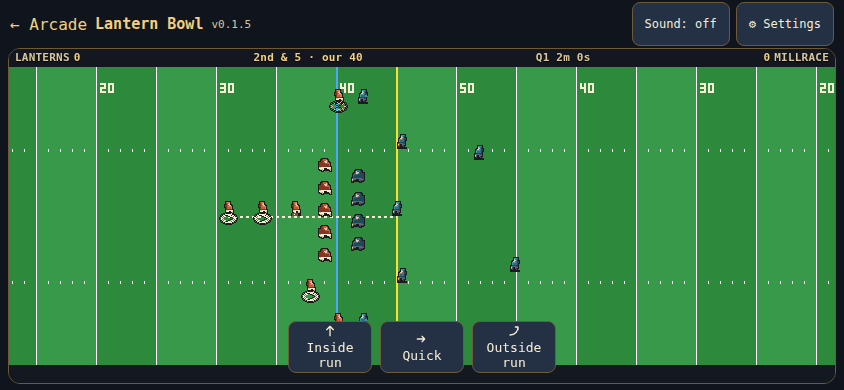
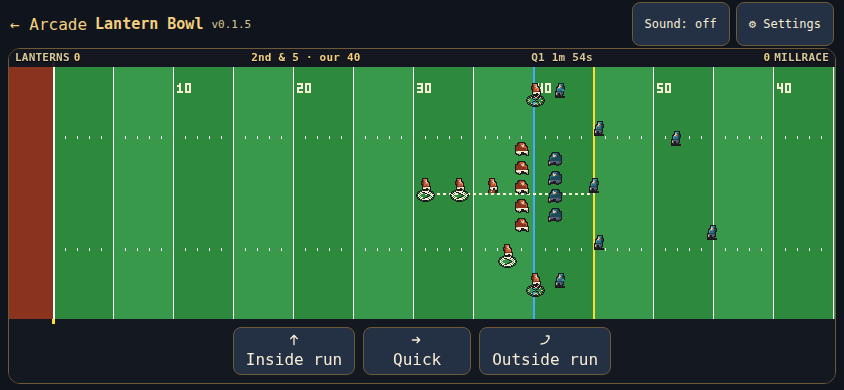
The result line sits on the bottom edge, the play cards stay on one 16px line, and the defence buttons stay off the receivers' feet.

diff --git a/tests/lantern-bowl.html b/tests/lantern-bowl.html
@@ -122,6 +122,12 @@ document.querySelector('#run').onclick = async () => {
     const fittedPhone = V.fitLayout(844, 390), fittedNarrow = V.fitLayout(780, 360), fittedDesk = V.fitLayout(1024, 594);
     const fills = (fitted, boxW, boxH) => !!fitted && fitted.scale === Math.floor(fitted.scale) && fitted.scale >= 1 && !fitted.vertical && fitted.w * fitted.scale <= boxW && fitted.h * fitted.scale <= boxH && fitted.w * fitted.scale >= boxW - fitted.scale && fitted.h * fitted.scale >= boxH - fitted.scale;
     check('the picture scales by a whole number and fills the box', fills(fittedPhone, 844, 390) && fills(fittedNarrow, 780, 360) && fills(fittedDesk, 1024, 594));
+    const aboveCards = (fitted) => {
+      const reserve = Math.ceil(64 / fitted.scale);
+      const feet = fitted.top + fitted.fieldH * (0.5 + 20 / fitted.widthY) + 2;
+      return fitted.top + fitted.fieldH <= fitted.h - reserve + 0.5 && feet <= fitted.h - reserve;
+    };
+    check('the grass and the widest receiver stay above the bottom cards', aboveCards(fittedPhone) && aboveCards(fittedNarrow) && aboveCards(fittedDesk));
     const openMark = V.opennessMark('open'), windowMark = V.opennessMark('window'), coveredMark = V.opennessMark('covered');
     check('openness marks differ by shape, with a light open ring', openMark.shape !== windowMark.shape && windowMark.shape !== coveredMark.shape && openMark.color === '#f6edd4' && openMark.outline === '#1e1a22' && coveredMark.shape === 'dotted');
     let openCatches = 0, tightPicks = 0, tightDrops = 0, trials = 1600, rollState = 5;
@@ -675,7 +681,7 @@ document.querySelector('#run').onclick = async () => {
     const sheet = d2.querySelector('#sheet');
     const resumed = w2.__lantern.state;
     const resultLine = d2.querySelector('#banner');
-    check('the toast names the play without a rating number', !!resultLine && !resultLine.hidden && sheet.hidden && resultLine.textContent.length > 8 && !/\(\d+\)/.test(resultLine.textContent) && resultLine.textContent.indexOf('throw ') < 0);
+    check('continuing a drive does not lay the last result over the cards', sheet.hidden && resultLine.hidden);
     const offered = Array.from(d2.querySelectorAll('[data-play]'));
     check('the call is a short row with a diagram', offered.length >= 2 && offered.length <= 3 && offered.every(b => b.querySelector('svg') && b.textContent.trim().length > 1));
     check('kick stays off the call until fourth down', !d2.querySelector('[data-play="kick"]') && !d2.querySelector('[data-play="field"]') && !d2.querySelector('[data-play="punt"]'));
@@ -733,7 +739,7 @@ document.querySelector('#run').onclick = async () => {
     check('the toast names the ball carrier without a rating number', !!carried && !carried.hidden && topCopy.hidden && carried.textContent.indexOf('Mara Holt') >= 0 && !/\(\d+\)/.test(carried.textContent) && carried.textContent.indexOf('throw ') < 0);
     const bannerZ = parseInt(w2.getComputedStyle(carried).zIndex, 10);
     const dockZ = parseInt(w2.getComputedStyle(d2.querySelector('#dock')).zIndex, 10);
-    check('one result toast sits clear of the yard numbers, with the play cards hidden', w2.__lantern.state.phase !== 'final' && d2.querySelectorAll('[data-play]').length === 0 && topCopy.hidden && !carried.hidden && carriedBox.top > carriedPitch.top + carriedPitch.height * 0.45 && carriedBox.bottom <= carriedPitch.bottom && bannerZ > dockZ);
+    check('one result toast sits on the bottom edge, clear of the players, with the play cards hidden', w2.__lantern.state.phase !== 'final' && d2.querySelectorAll('[data-play]').length === 0 && topCopy.hidden && !carried.hidden && carriedBox.top >= carriedPitch.bottom - 56 && carriedPitch.bottom - carriedBox.bottom <= 16 && carriedPitch.bottom - carriedBox.bottom >= 0 && bannerZ > dockZ);
     let cardsBack = false;
     const backWatch = performance.now();
     while (performance.now() - backWatch < 4000 && !cardsBack) {
@@ -741,9 +747,8 @@ document.querySelector('#run').onclick = async () => {
       cardsBack = w2.__lantern.mode === 'play' && d2.querySelectorAll('[data-play]').length >= 2 && d2.querySelectorAll('[data-play]').length <= 3;
     }
     check('the next play can be called once the result has been shown', cardsBack);
-    const callBanner = d2.querySelector('#banner').getBoundingClientRect();
     const callCard = d2.querySelector('#dock button') && d2.querySelector('#dock button').getBoundingClientRect();
-    check('the one result toast stays above the next play cards', d2.querySelector('#sheet').hidden && !!callCard && callBanner.bottom <= callCard.top + 4);
+    check('the result line leaves once the next play cards return', d2.querySelector('#sheet').hidden && !!callCard && d2.querySelector('#banner').hidden);
     resumed.possession = 'home';
     resumed.phase = 'call';
     resumed.down = 1;
@@ -797,7 +802,17 @@ document.querySelector('#run').onclick = async () => {
       check(width + '×' + height + ' field fills most of the screen', pitch.height >= height * 0.62 && pitch.width >= width * 0.85);
       check(width + '×' + height + ' keeps a thin score strip', hud.height >= 16 && hud.height <= 20);
       check(width + '×' + height + ' play buttons are thumb sized', Array.from(d2.querySelectorAll('#dock button, #settingsMount button, .home')).every(b => b.getBoundingClientRect().height >= 44 && b.getBoundingClientRect().width >= 44));
+      const labelRows = cards.map(b => b.querySelector('span')).filter(Boolean);
+      const labelFonts = cards.map(b => parseFloat(w2.getComputedStyle(b).fontSize));
+      const labelHeights = cards.map(b => Math.round(b.getBoundingClientRect().height));
+      check(width + '×' + height + ' labels are 16px on one line', labelFonts.every(n => n >= 16) && labelRows.every(s => s.getClientRects().length === 1 && s.scrollWidth <= s.clientWidth + 1) && labelHeights.every(h => h === labelHeights[0] && h <= 48));
+      check(width + '×' + height + ' hint text is readable', parseFloat(w2.getComputedStyle(d2.querySelector('#hint')).fontSize) >= 16 && parseFloat(w2.getComputedStyle(d2.querySelector('#hint')).lineHeight) >= 20);
       check(width + '×' + height + ' call is two or three plays along the bottom', cards.length >= 2 && cards.length <= 3 && cards[0].getBoundingClientRect().top > pitch.top + pitch.height * 0.55);
+      if (width === 780) {
+        const layout = w2.LanternView.fitLayout(pitch.width, pitch.height);
+        const feet = pitch.top + (layout.top + layout.fieldH * (0.5 + 20 / layout.widthY) + 2) * layout.scale;
+        check('at 780×360 the cards stay off the bottom receivers', cards[0].getBoundingClientRect().top + 1 >= feet);
+      }
       if (width === 844) {
         const boxes = [d2.querySelector('h1'), d2.querySelector('.home'), d2.querySelector('#settingsMount button')].map(el => el.getBoundingClientRect());
         const mids = boxes.map(r => (r.top + r.bottom) / 2);
@@ -814,7 +829,7 @@ document.querySelector('#run').onclick = async () => {
         banner.hidden = false; banner.textContent = 'The result sits low.';
         const players = fieldWide.top + fieldWide.height * 0.45;
         const bannerBox = banner.getBoundingClientRect();
-        check('on a landscape phone the result sits below the players', bannerBox.top > players);
+        check('on a landscape phone the result sits on the bottom edge', bannerBox.top > players && bannerBox.top >= fieldWide.bottom - 56 && fieldWide.bottom - bannerBox.bottom <= 16);
         banner.hidden = true; banner.textContent = '';
         resumed.down = 4;
         resumed.spot = 70;
@@ -822,6 +837,10 @@ document.querySelector('#run').onclick = async () => {
         await wait();
         const fourthCards = Array.from(d2.querySelectorAll('[data-play]'));
         check('on a landscape phone fourth down still offers a short call', fourthCards.length >= 2 && fourthCards.length <= 3 && !!d2.querySelector('[data-play="field"]') && !!d2.querySelector('[data-play="punt"]') && !d2.querySelector('[data-play="kick"]'));
+        const fourthLabels = fourthCards.map(b => b.querySelector('span')).filter(Boolean);
+        const fourthFonts = fourthCards.map(b => parseFloat(w2.getComputedStyle(b).fontSize));
+        const fourthHeights = fourthCards.map(b => Math.round(b.getBoundingClientRect().height));
+        check('fourth down labels stay on one 16px line', fourthFonts.every(n => n >= 16) && fourthLabels.every(s => s.getClientRects().length === 1 && s.scrollWidth <= s.clientWidth + 1) && fourthHeights.every(h => h === fourthHeights[0] && h <= 48));
         check('on a landscape phone fourth down still fits', d2.documentElement.scrollWidth <= width + 1 && d2.documentElement.scrollHeight <= height + 1);
         resumed.down = 1;
         resumed.spot = 28;
@@ -877,6 +896,16 @@ document.querySelector('#run').onclick = async () => {
     again.watchLive();
     await wait();
     check('before a Millrace drive you pick blitz, balanced or prevent', d2.querySelectorAll('[data-defence]').length === 3 && d2.querySelectorAll('[data-play]').length === 0 && (d2.querySelector('#hint').textContent || '').indexOf('Pick a defence') >= 0 && !d2.querySelector('.cpu-log'));
+    frame.style.width = '780px'; frame.style.height = '360px';
+    await wait();
+    const defencePitch = d2.querySelector('.pitch').getBoundingClientRect();
+    const defenceBtn = d2.querySelector('[data-defence]').getBoundingClientRect();
+    const defenceLayout = w2.LanternView.fitLayout(defencePitch.width, defencePitch.height);
+    const defenceFeet = defencePitch.top + (defenceLayout.top + defenceLayout.fieldH * (0.5 + 20 / defenceLayout.widthY) + 2) * defenceLayout.scale;
+    const defenceLabels = Array.from(d2.querySelectorAll('[data-defence]'));
+    check('at 780×360 the defence cards stay off the bottom receivers', defenceBtn.top + 1 >= defenceFeet && defenceLabels.every(b => { const s = b.querySelector('span'); return parseFloat(w2.getComputedStyle(b).fontSize) >= 16 && s && s.getClientRects().length === 1 && Math.round(b.getBoundingClientRect().height) === 48; }));
+    frame.style.width = '844px'; frame.style.height = '390px';
+    await wait();
     d2.querySelector('[data-defence="balanced"]').click();
     let sawLive = false, ballMoved = false, firstBall = null, staleStrip = false, firstSquad = null, playersMoved = false, buttonsDuring = false;
     for (let i = 0; i < 48; i++) {
@@ -952,7 +981,10 @@ document.querySelector('#run').onclick = async () => {
     check('an overtime save round-trips at v2', !!otLoaded && otLoaded.v === 2 && otBack.quarter === 5 && otBack.otTurns === 2 && otWritten.quarter === 5 && otWritten.otTurns === 2 && otWritten.possession === 'away' && Math.round(otWritten.spot) === 75 && JSON.stringify(otWritten) === JSON.stringify(otLoaded.match));
     d2.querySelector('#field').dispatchEvent(new w2.PointerEvent('pointerdown', { clientX: 30, clientY: 80, pointerId: 7, bubbles: true }));
     await wait();
-    check('a drag before a play asks for one', (d2.querySelector('#banner').textContent || '').indexOf('Pick a play') >= 0);
+    const askHint = d2.querySelector('#hint').textContent || '';
+    const askBanner = d2.querySelector('#banner');
+    const askCards = d2.querySelector('#dock button');
+    check('a drag before a play asks for one', (askHint + (askBanner.textContent || '')).indexOf('Pick a play') >= 0 && (!askCards || askBanner.hidden));
     again.rush(true);
     again.state.down = 4; again.state.spot = 28; again.state.toGo = 10; again.state.phase = 'call'; again.state.possession = 'home';
     again.state.quarter = 1; again.state.clock = 120; again.state.seed = 1; again.state.rng = 1;

diff --git a/games/lantern-bowl/style.css b/games/lantern-bowl/style.css
@@ -77,31 +77,34 @@ canvas { display: block; width: 100%; height: 100%; touch-action: none; }
 .cpu-log li { margin: 0 0 8px; }
 .cpu-log p { margin: 0; }
 .banner {
-  position: absolute; left: 50%; bottom: 82px; top: auto; transform: translateX(-50%); z-index: 6;
-  max-width: min(92%, 420px); padding: 6px 12px; background: #141820e6; border: 1px solid var(--lamp);
-  color: var(--ink); text-align: center; font-size: calc(14px * var(--arc-text)); pointer-events: none;
+  position: absolute; left: 8px; right: 8px; bottom: 8px; top: auto; transform: none; z-index: 6;
+  max-width: none; margin: 0 auto; padding: 4px 12px; background: #141820e6; border: 1px solid var(--lamp);
+  color: var(--ink); text-align: center; font-size: calc(16px * var(--arc-text)); line-height: 20px;
+  white-space: nowrap; overflow: hidden; text-overflow: ellipsis; pointer-events: none;
 }
 .dock {
-  position: absolute; left: 0; right: 0; bottom: 10px; z-index: 5;
+  position: absolute; left: 0; right: 0; bottom: 8px; z-index: 5;
   display: flex; justify-content: center; pointer-events: none;
 }
-.dock-plays { display: flex; gap: 8px; pointer-events: auto; }
+.dock-plays { display: flex; gap: 8px; pointer-events: auto; max-width: 100%; }
 .dock-plays button {
-  width: 96px; min-height: 48px; max-height: 64px; display: flex; flex-direction: column;
-  align-items: center; justify-content: center; gap: 2px; padding: 4px 6px;
-  white-space: normal; line-height: 1.15; font-size: calc(13px * var(--arc-text));
+  width: auto; min-width: 108px; height: 48px; min-height: 48px; max-height: 48px;
+  display: flex; flex-direction: column;
+  align-items: center; justify-content: center; gap: 2px; padding: 4px 12px;
+  white-space: nowrap; line-height: 20px; font-size: calc(16px * var(--arc-text));
 }
+.dock-plays button span { white-space: nowrap; }
 .dock-plays svg { width: 28px; height: 16px; flex: 0 0 auto; fill: none; stroke: currentColor; stroke-width: 2; stroke-linecap: round; stroke-linejoin: round; }
 .hint, .held {
   position: absolute; margin: 0; text-align: center;
-  color: #d9c89a; font-size: 11px; line-height: 16px; pointer-events: none;
+  color: #d9c89a; font-size: calc(16px * var(--arc-text)); line-height: 24px; pointer-events: none;
 }
 .hint {
-  top: 18px; left: 0; right: 0; height: 16px; max-height: 16px;
+  top: 18px; left: 0; right: 0; height: 24px; max-height: 24px;
   padding: 0 8px; z-index: 4; overflow: hidden; text-overflow: ellipsis;
   white-space: nowrap; background: #141820f2;
 }
-.held { left: 12px; right: 12px; top: 40px; z-index: 6; color: var(--lamp); }
+.held { left: 12px; right: 12px; top: 46px; z-index: 6; color: var(--lamp); }
 .hint.reading { color: var(--lamp); font-weight: 700; }
 .turn {
   position: fixed; inset: 0; z-index: 10000;
@@ -158,8 +161,7 @@ canvas { display: block; width: 100%; height: 100%; touch-action: none; }
   .curtain { overflow: hidden; align-items: end; }
   .panel { padding: 10px; max-height: calc(100% - 8px); }
   .panel h2 { font-size: calc(20px * var(--arc-text)); }
-  .dock-plays button { min-height: 44px; max-height: 52px; width: 84px; }
-  .hint { top: 18px; bottom: auto; height: 16px; }
+  .dock-plays button { min-height: 48px; max-height: 48px; height: 48px; }
 }
 @media (max-width: 380px) {
   header { flex-wrap: wrap; gap: 4px; padding: 2px 0; }

diff --git a/games/lantern-bowl/game.js b/games/lantern-bowl/game.js
@@ -79,7 +79,7 @@
   var state = null, mode = 'title', last = 0, bannerUntil = 0, aimDrag = null, lastSheet = '';
   var keys = new Set(), turboHeld = false, gesture = null, steer = 0, queued = { juke: 0, dive: false, spin: false, throw: null };
   var stick = null, receiverKey = '', throwKind = 'bullet', turboTouch = null;
-  var sheetDetail = false, watchLeft = 0, resultLeft = 0, touchGuard = 0, rushWatch = false, promptUntil = 0, summaryLine = '';
+  var sheetDetail = false, watchLeft = 0, resultLeft = 0, touchGuard = 0, rushWatch = false, promptUntil = 0, promptLine = '', summaryLine = '';
   var pointerNotes = [];
 
   function persist() {
@@ -141,8 +141,16 @@
     bannerUntil = 0;
   }
   function prompt(text) {
-    say(text);
     promptUntil = performance.now() + 2200;
+    var cardsUp = $('dock') && $('dock').querySelector('button');
+    if (cardsUp) {
+      promptLine = text || '';
+      say('');
+      paintHint();
+      return;
+    }
+    promptLine = '';
+    say(text);
   }
   function sentences(text) {
     var parts = String(text || '').match(/[^.!?]+[.!?]+/g);
@@ -218,9 +226,9 @@
     mode = 'play';
     hideSheet();
     dock();
-    say(shortToast(summaryLine || M.currentMessage(state)));
+    say('');
   }
-  /* The whistle's line stays up, with the next play cards held back so they cannot cover it. */
+  /* The whistle's line sits on the bottom edge. The next cards stay hidden until it has been read. */
   function showResult() {
     if (!state || state.phase === 'final') return showFinal();
     if (state.possession !== 'home') return holdWatch();
@@ -326,6 +334,7 @@
     return id;
   }
   function hintText() {
+    if (promptLine && performance.now() < promptUntil) return promptLine;
     if (mode === 'defence') return 'Pick a defence.';
     var live = !!(mode === 'play' && state && state.phase === 'live');
     var parts = [];
@@ -366,6 +375,8 @@
   function begin(id) {
     if (!state || state.phase !== 'call' || state.possession !== 'home') return;
     resultLeft = 0;
+    promptLine = '';
+    promptUntil = 0;
     if (mode === 'result') mode = 'play';
     summaryLine = '';
     if (id === 'kick' || id === 'field' || id === 'punt') { M.kick(state, id === 'kick' ? null : id); afterWhistle(); return; }
@@ -829,9 +840,8 @@
     paintTools();
     if (performance.now() >= promptUntil) {
       var watching = mode === 'watch' || mode === 'defence';
-      var calling = mode === 'play' && state.phase === 'call' && state.possession === 'home';
       var msg = '';
-      if (!curtainUp && (mode === 'result' || calling)) msg = shortToast(summaryLine || M.currentMessage(state) || '');
+      if (!curtainUp && mode === 'result') msg = shortToast(summaryLine || M.currentMessage(state) || '');
       else if (!watching && state.phase !== 'live' && state.phase !== 'final' && mode !== 'title') msg = '';
       if ($('banner').textContent !== msg) say(msg);
     }
@@ -1002,7 +1012,7 @@
             else beginWatch();
           } else {
             finishDrive();
-            showCall();
+            showResult();
           }
         }
       }

diff --git a/games/lantern-bowl/view.js b/games/lantern-bowl/view.js
@@ -135,12 +135,13 @@
     if (!(scale >= 1)) scale = 1;
     var fillW = Math.max(8, Math.floor(w / scale));
     var fillH = Math.max(8, Math.floor(h / scale));
-    var chrome = Math.max(0, base.h - base.fieldH);
-    var margin = Math.min(chrome, Math.max(base.top, Math.floor(fillH / 5)));
+    /* Play cards and the result line share the bottom edge. The grass stops
+       above that strip, so the widest receiver's feet stay off the cards. */
+    var dockPx = Math.ceil(64 / scale);
     return {
       w: fillW, h: fillH, yard: base.yard, top: base.top, widthY: base.widthY,
       lead: base.lead, scale: scale,
-      fieldH: Math.max(16, fillH - margin),
+      fieldH: Math.max(16, fillH - base.top - dockPx),
       anchor: Math.round(fillW * 0.28)
     };
   }

diff --git a/games/lantern-bowl/README.md b/games/lantern-bowl/README.md
@@ -10,7 +10,7 @@ v0.1.2. Millrace remembers the three plays you call most, and sits on a play you
 
 v0.1.1. One football game at Lamplight Field. You are the Brackenport Lanterns, Millrace is the other side. Four quarters of two minutes. You call the play and play the snap. Their drives play out on the field.
 
-The field fills the screen. The score, the down and the clock sit in a strip about 18 pixels tall. Before the snap, three plays sit in a short row along the bottom, with the route drawn on the card and in chalk on the grass, and a ring under each receiver. Inside and Outside are labelled as runs. On fourth down, a punt is one of those three. When the goal is within 38 yards, a field goal is there too, and it is harder from farther away. During a play there are no action buttons. After the whistle one result line sits low, clear of the yard numbers and the players, and the next play cards wait until that line has been shown. They come back underneath it. Before Millrace's drive you pick Blitz, Balanced or Prevent. Their drive then plays as a short highlight, and one line says how it ended. The clock is slower than the snap itself, so a game holds about 8 to 12 of your drives. A short completion does not always gain the same yards.
+The field fills the screen. The score, the down and the clock sit in a strip about 18 pixels tall. Before the snap, three plays sit in a short row along the bottom, with the route drawn on the card and in chalk on the grass, and a ring under each receiver. Inside and Outside are labelled as runs. On fourth down, a punt is one of those three. When the goal is within 38 yards, a field goal is there too, and it is harder from farther away. During a play there are no action buttons. After the whistle one result line sits on the bottom edge, clear of the players, and the next play cards wait until that line has been shown. They then take that same bottom edge. Before Millrace's drive you pick Blitz, Balanced or Prevent. Their drive then plays as a short highlight, and one line says how it ended. The clock is slower than the snap itself, so a game holds about 8 to 12 of your drives. A short completion does not always gain the same yards.
 
 Drag anywhere on the field and let go to throw. Downfield is the opposite of the drag. How far you pull sets the power, and a full throw takes a long drag that fits the screen. The power meter fills across that whole drag, so a short pull stays short. The dotted landing arc shows where it will come down. A second finger, a right-click, or Shift switches a lob and a bullet. A lob hangs longer. A bullet gets there sooner. The ball lands where you aimed. It does not lead the receiver for you, and it does not steer itself onto a receiver. While you drag, the receiver nearest that spot is highlighted. A catch still needs the ball to arrive near that receiver, a little wider than before, and still a miss if the drag is off. Aim error grows with the distance and with pressure. A defender within about 2.6 yards contests the catch. A breakup is much more common than a pick, and a pick happens only when that defender is closer to the ball than the receiver. A miss says what happened: overthrown, underthrown, wide left, wide right, broken up, or picked. Letting go past the sideline throws it away. With the ball, swipe or hold to steer and juke. Tap to dive. A second finger sprints and spends wind. The result is a short line that does not cover the play, and it does not read out rating numbers. Green lanes are blocked open. Red lanes are not. The ring around the quarterback shrinks as the rush arrives. Ratings still run from 0 to 100 inside the game. About 50 is an ordinary player. A careless game loses. An attentive one wins. One snap never takes more than 14 seconds. Millrace's drive is a short highlight on the field after you pick a defence, and one line says how it ended. If the score is level at the gun, overtime gives each side one turn from the 25. A lead after both turns wins. If it is still level, they play another pair of turns. Play again returns to the kickoff.
 
